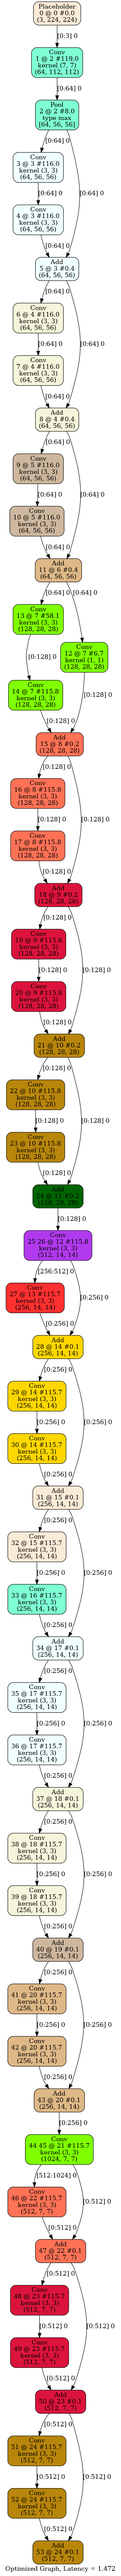
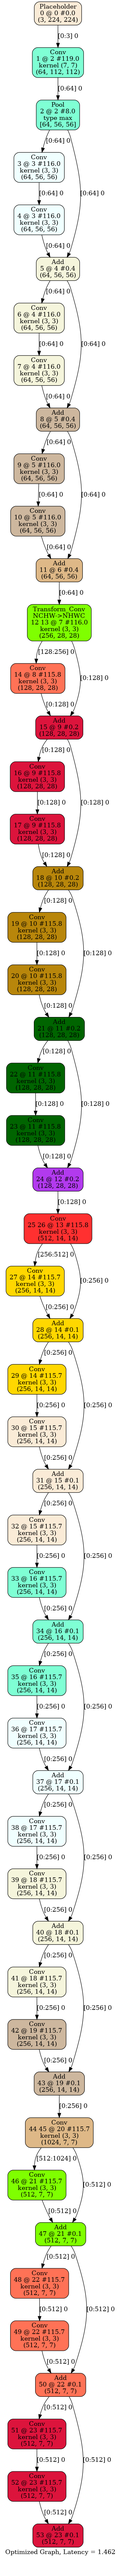
update results; enable merge for any llayout transform_conv

Changed region(s): [[0.0299, 0.0, 0.8967, 0.9999], [0.0897, 0.0625, 0.1196, 0.0937]]

diff --git a/python/ios/optimizer.py b/python/ios/optimizer.py
@@ -462,8 +462,8 @@ def latency(stage: Tuple[List[List[int]], str], block, merge_latency, parallel_l
                 nd for nd in snodes if (
                     isinstance(nd, Conv) or (
                         isinstance(nd, Transform_Conv)
-                        and nd.conv_in_layout == "NCHW"
-                        and nd.conv_out_layout == "NCHW"
+                        # and nd.conv_in_layout == "NCHW"
+                        # and nd.conv_out_layout == "NCHW"
                         )
                     )
             ]
